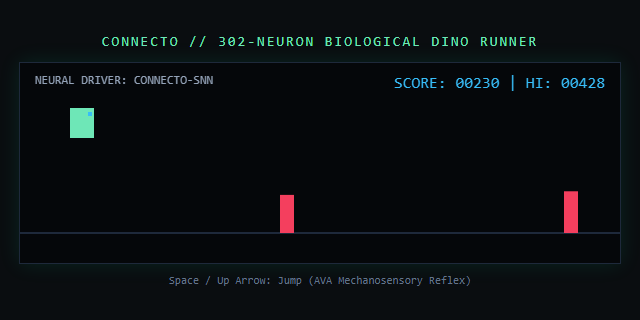
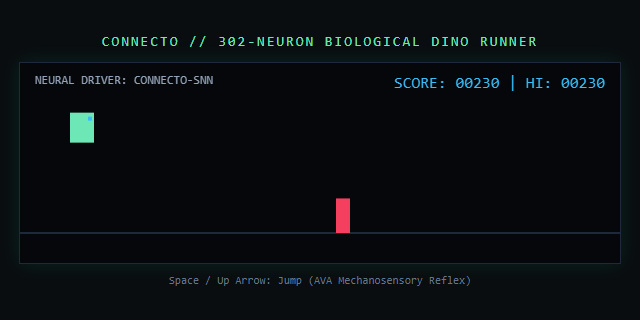
telemetry(worm): autonomous activity sync at 2026-09-16 13:48

diff --git a/ACTIVITY.md b/ACTIVITY.md
@@ -1,6 +1,6 @@
 # CONNECTO // AUTONOMOUS BIOLOGICAL ACTIVITY FEED
 
-> **Verification Timestamp:** `2026-09-16 13:32:45 UTC`  
+> **Verification Timestamp:** `2026-09-16 13:48:05 UTC`  
 > **Repository:** [0xalydev/connecto](https://github.com/0xalydev/connecto)  
 > **Biological Engine:** C. elegans 302-neuron closed-loop SNN (LIF)  
 > **Status:** `ACTIVE_CLOSED_LOOP`  
@@ -11,9 +11,9 @@
 
 *Most recent introspection generated from biological membrane dynamics:*
 
-> **Signature:** `0x89a82283c8bdfacc`  
+> **Signature:** `0x01b43fbc20014a38`  
 > **Behavioral State:** `FORAGING_SEARCH`  
-> **Membrane Potential:** `-59.37 mV` | **Locomotion:** `33.6 mm/s`  
+> **Membrane Potential:** `-59.33 mV` | **Locomotion:** `33.6 mm/s`  
 > 
 > *"Chemical gradient flat (0.000 mol/L). Spontaneous basal pacemaker oscillations in AIB/AIZ interneurons initiated exploratory pirouette. Searching arena substrate at 33.6 mm/s."*
 
@@ -23,9 +23,9 @@
 
 | Metric | Result |
 |---|---|
-| **High Score** | `296` |
-| **Total Reflex Jumps** | `191` (Driven by AVA escape pool) |
-| **Completed Trials** | `4` |
+| **High Score** | `345` |
+| **Total Reflex Jumps** | `196` (Driven by AVA escape pool) |
+| **Completed Trials** | `3` |
 | **Proof Snapshot** | `dino_latest_trial.png` |
 
 ---
